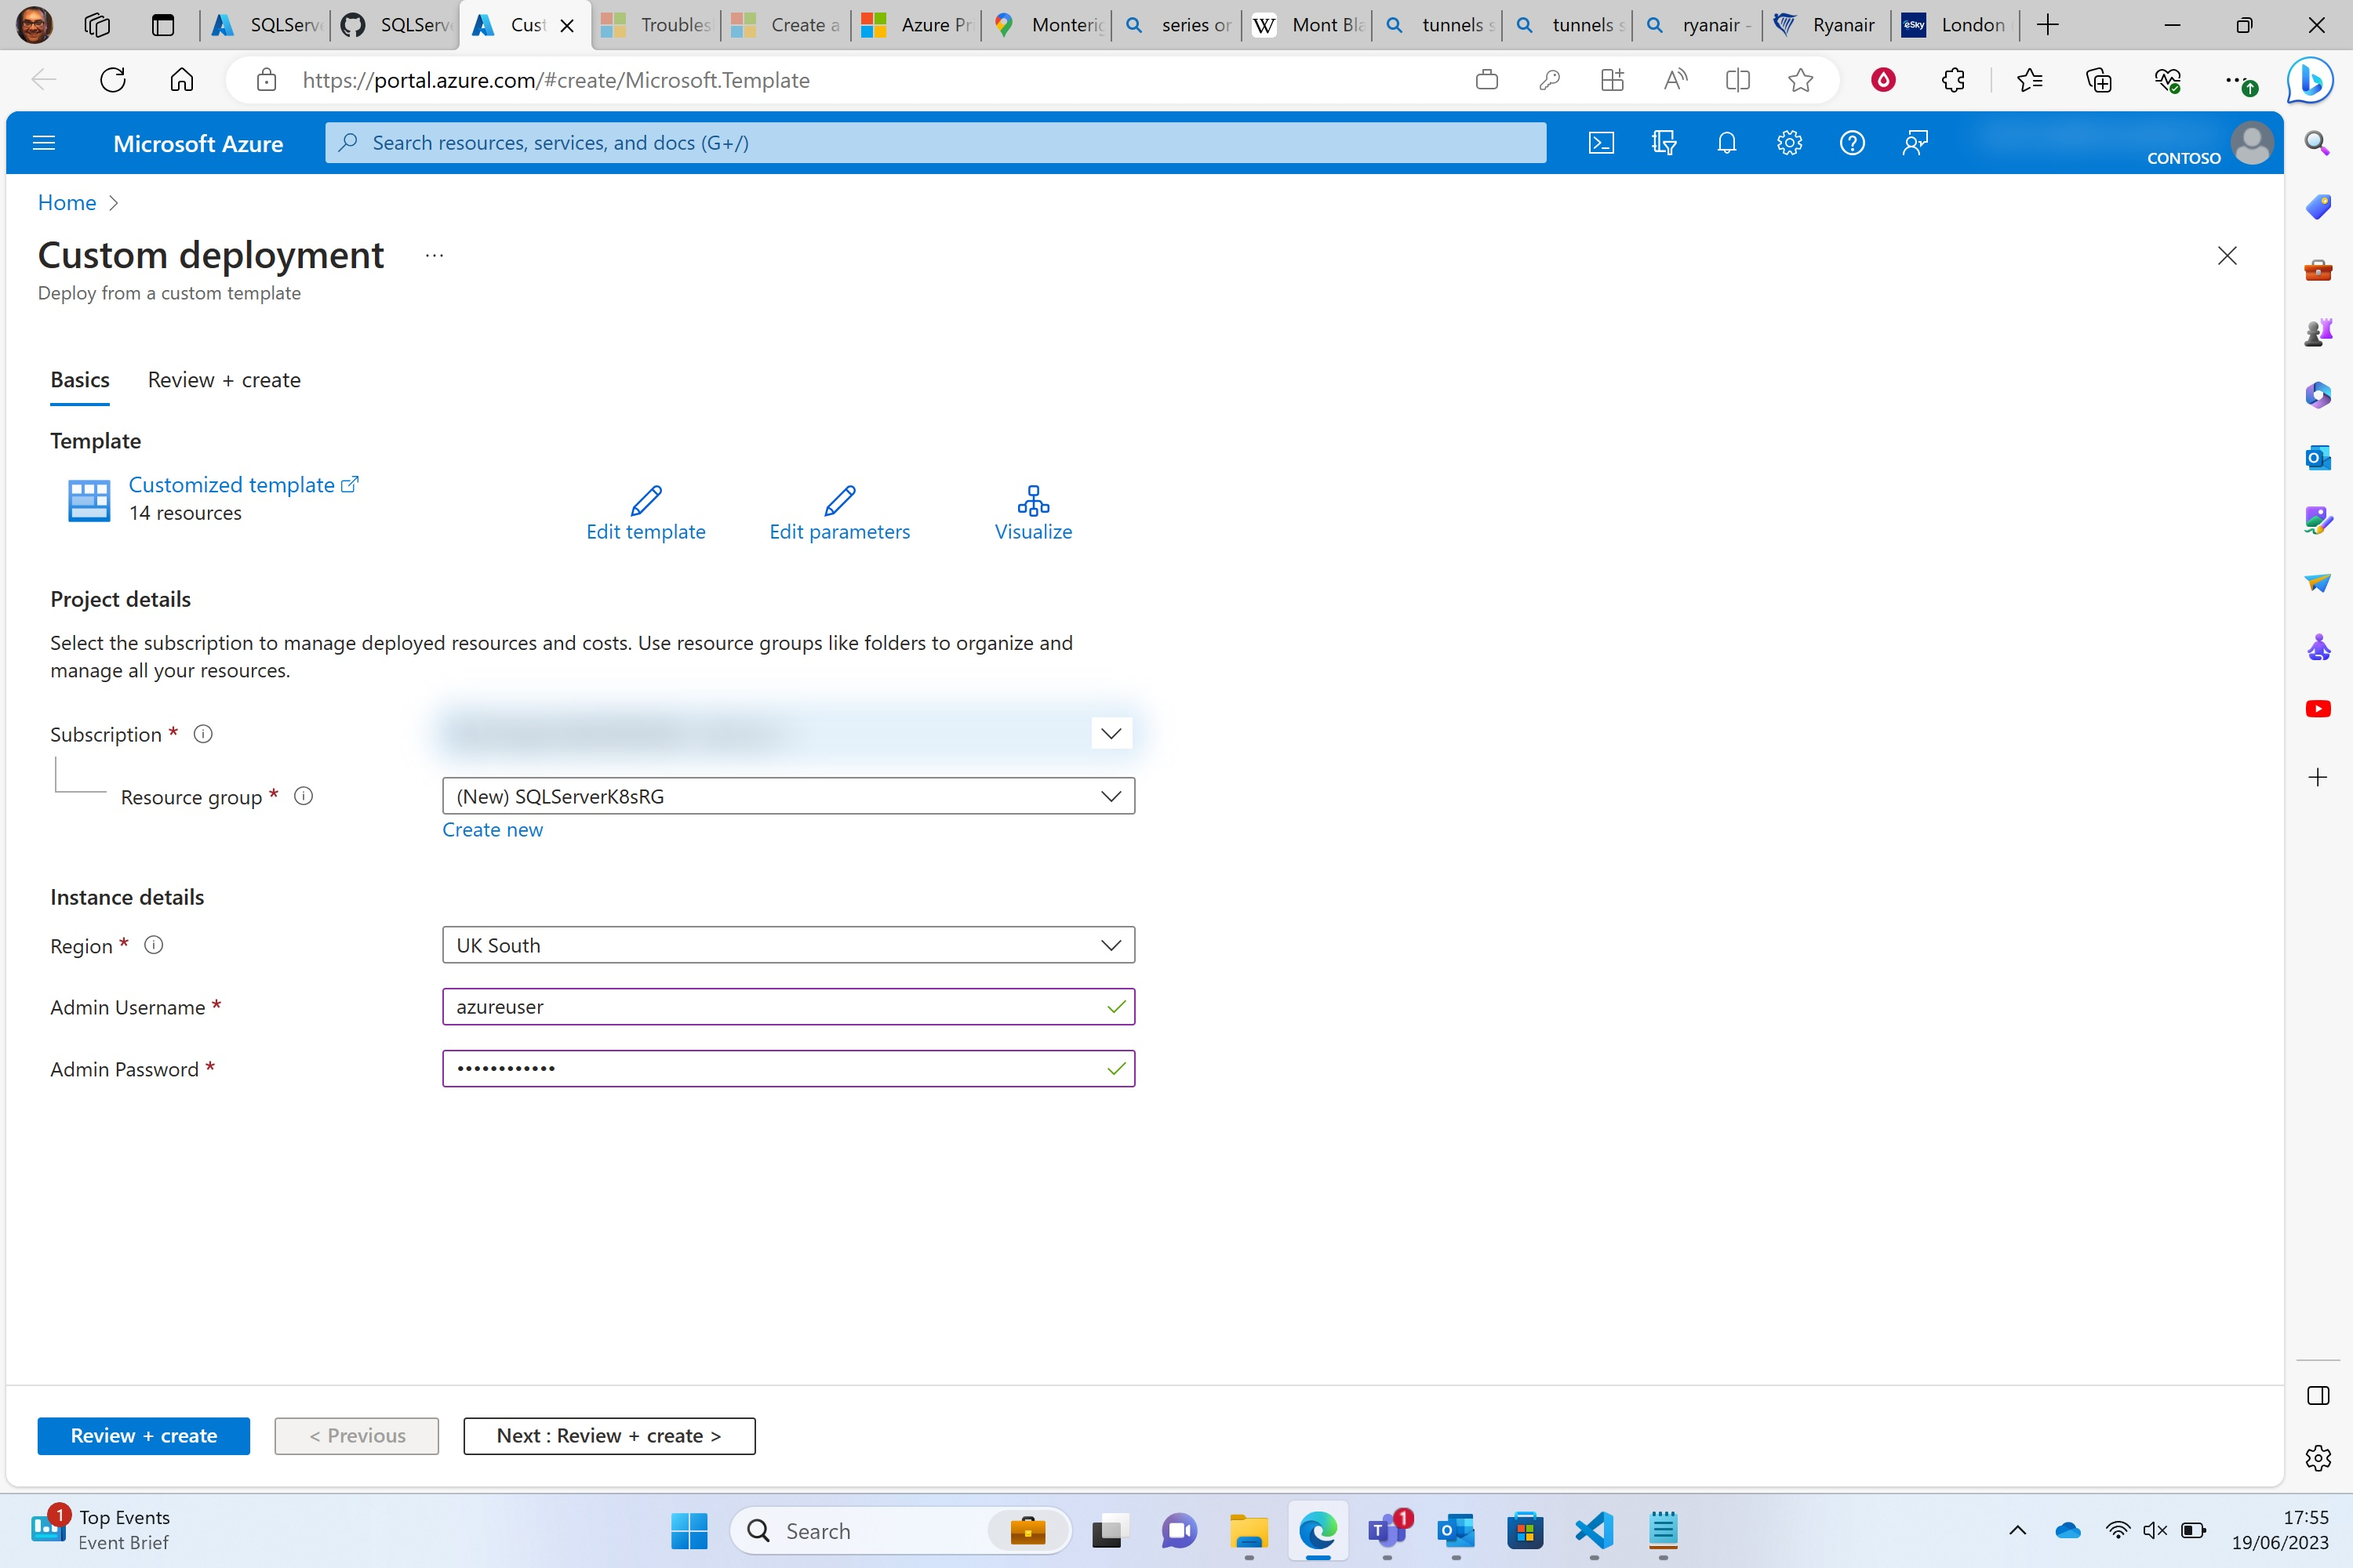
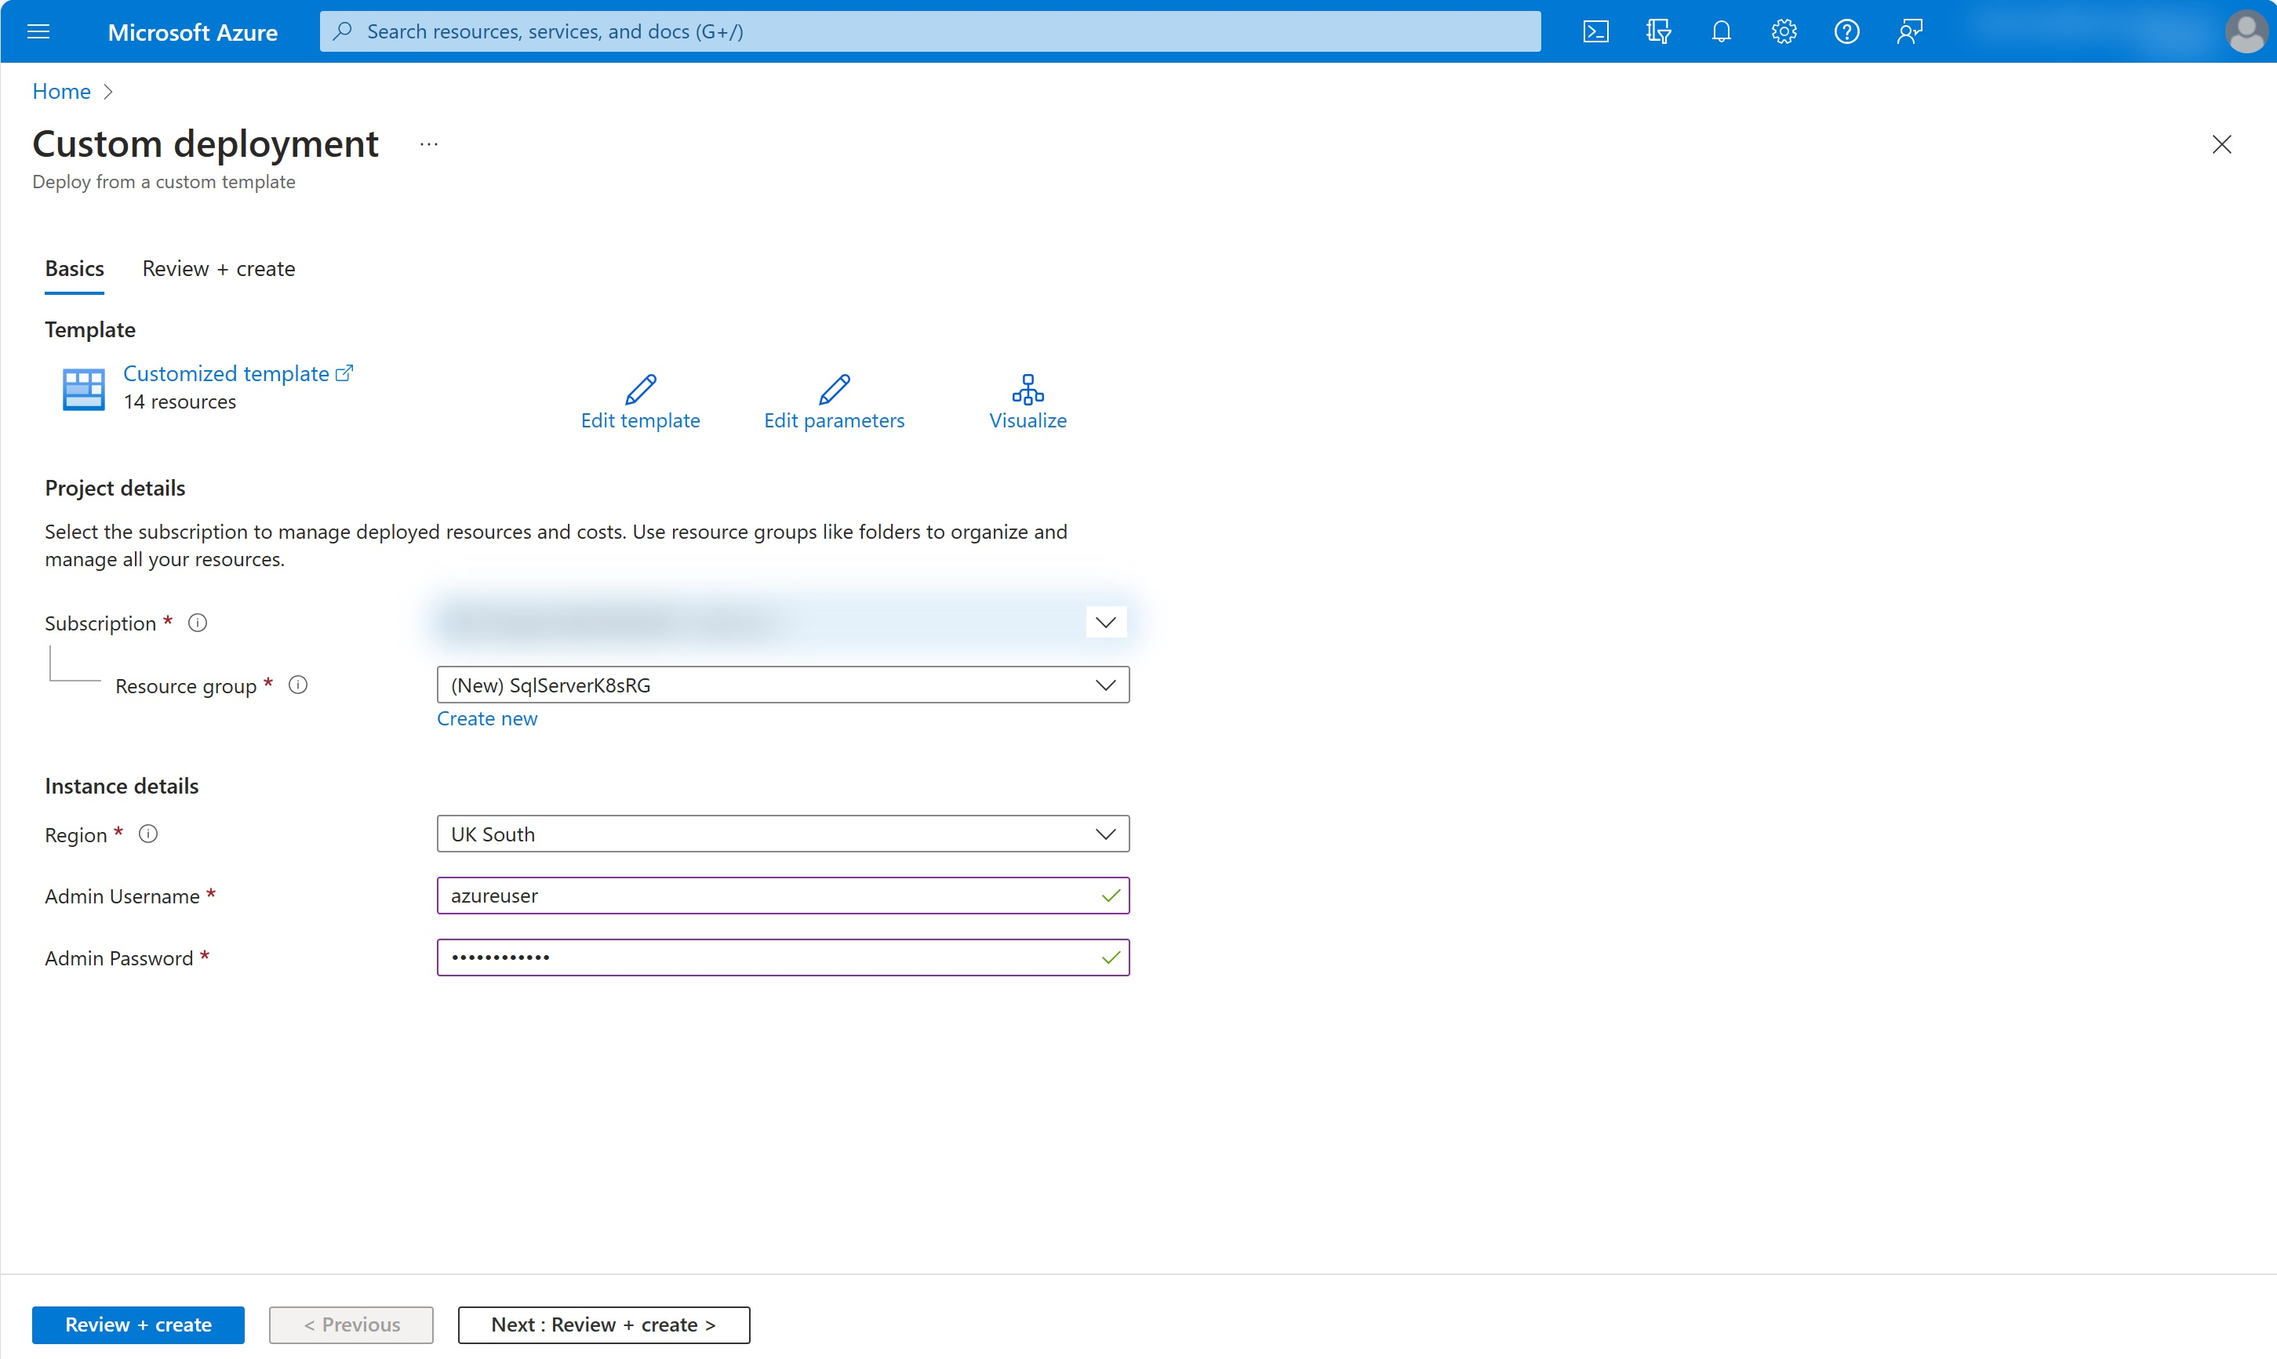
Update to setup.json to fix resource deploy error

diff --git a/modules/setup.md b/modules/setup.md
@@ -35,6 +35,8 @@ The following resources will be deployed (expensive to keep running)
 
 2. Complete the form and then click **Review + create**
 
+        ![az-login](media/DeployResources.jpg)
+
 3. Click **Create**
 
 ## Install dependencies
